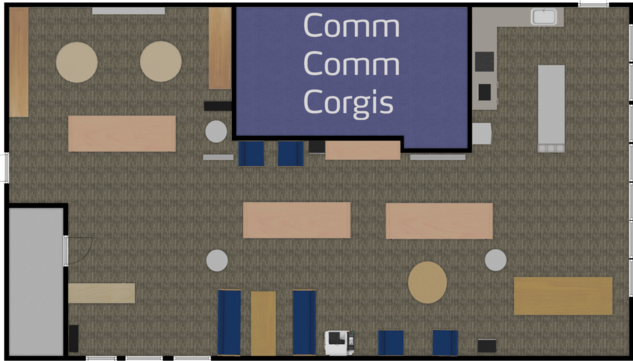
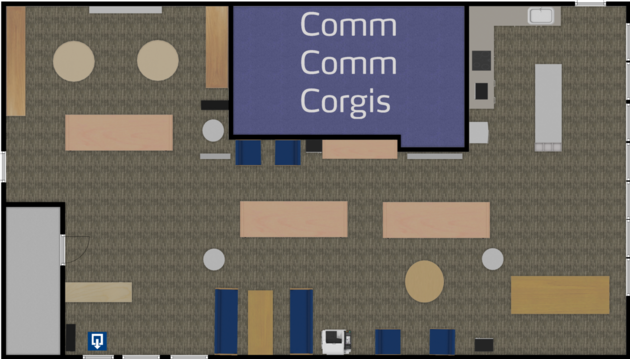
Change little bit of design of rooms

diff --git a/server.js b/server.js
@@ -29,7 +29,7 @@ const DEFAULT_ROOM = 'ctc';
 const ROOM_INFO = [
   {
     name: 'ctc',
-    doors: [[[73, 331], 'hub_games']],
+    doors: [[[69, 318], 'hub_games']],
     bounds: [
       [-24, -17],
       [-24, 233],
@@ -45,12 +45,12 @@ const ROOM_INFO = [
       [254, -17]
     ],
     image: 'assets/ctc_main.png',
-    width: 633,
-    height: 361
+    width: 630,
+    height: 359
   },
   {
     name: 'hub_games',
-    doors: [[[84, 425], 'ctc']],
+    doors: [[[84, 425], 'ctc']], // [[114, 293], 'ctc'], [[-2, 126], 'hub_pool'], [[582, 296], 'hub_bowling]
     bounds: [
       [-24, -17],
       [-24, 233],
@@ -66,8 +66,8 @@ const ROOM_INFO = [
       [254, -17]
     ],
     image: 'assets/hub_games_main.png',
-    width: 637,
-    height: 365
+    width: 636,
+    height: 362
   }
 ];
 
